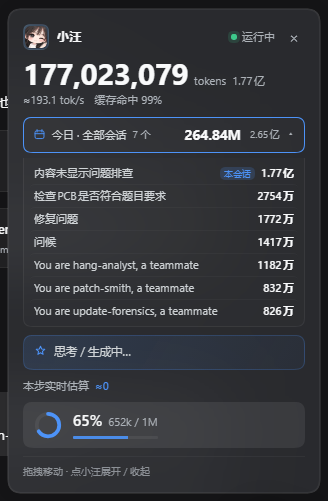
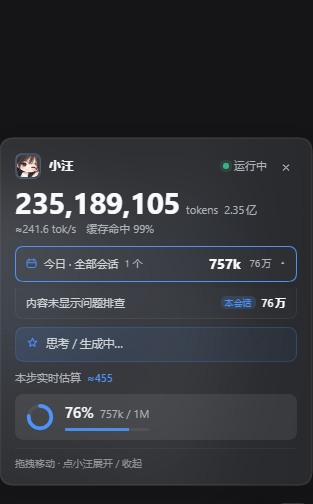
docs: show daily reset in screenshot

diff --git a/README.md b/README.md
@@ -54,7 +54,7 @@
 
 ## 截图
 
-**真实面板**（本会话 `1.77亿`，今日全部会话 `2.65亿`，展开后的各会话明细）：
+**真实面板**（本会话累计 `2.35亿`，今日新增 `76万`，展开后的各会话明细）：
 
 <p align="center"><img src="docs/images/card-live.png" width="360" alt="真实面板"></p>
 
